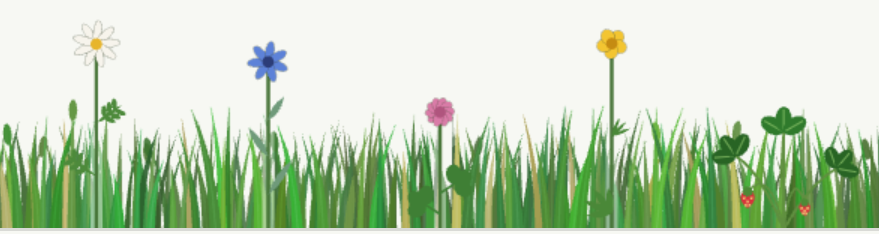
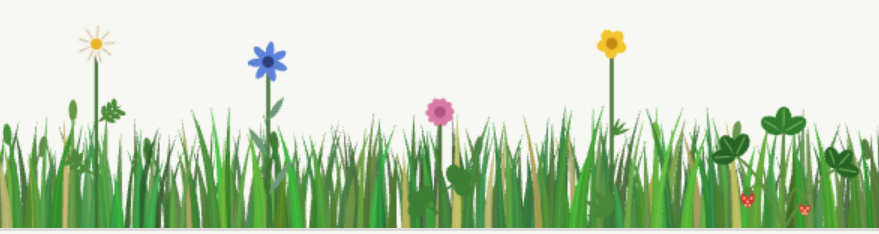
Preserve the grass behind flower heads and remove dark halos

diff --git a/flower-art.ts b/flower-art.ts
@@ -1,6 +1,6 @@
 /**
  * Рисунок цветов 0–3 (ромашка, василёк, клевер, лютик): длина стебля, листья по видам и
- * просвет в траве за цветком. Только геометрия и цвет; где цветок стоит и как гнётся —
+ * жилки белой ромашки. Только геометрия и цвет; где цветок стоит и как гнётся —
  * решает garden.ts (flowerShape), общий для рисунка, касания и покоса.
  */
 
@@ -134,20 +134,19 @@ export function drawLeaves(ctx: CanvasRenderingContext2D, kind: number, s: Stem,
   LEAVES[kind]?.(ctx, s, size);
 }
 
-/** Просвет в траве за цветком: дальние травинки вокруг стебля и головки слегка гаснут. */
-export function clearBehind(ctx: CanvasRenderingContext2D, s: Stem, r: number) {
-  ctx.save();
-  ctx.globalCompositeOperation = "destination-out";
-  ctx.globalAlpha = 0.45;
-  ctx.fillStyle = ctx.strokeStyle = "#000"; // цвет не важен; не оставлять цвет лепестков в контексте
+/**
+ * Белая ромашка на светлой теме: тонкая тёплая жилка внутри каждого лепестка (от сердцевины, не до
+ * кончика) отделяет лепестки друг от друга и от фона без контура и ореола вокруг головки.
+ * Вызывается в системе координат головки, уже повёрнутой как венчик.
+ */
+export function daisyVeins(ctx: CanvasRenderingContext2D, r: number, n: number, long: number) {
   ctx.beginPath();
-  ctx.moveTo(s.x, s.ground);
-  ctx.quadraticCurveTo(s.cx, s.cy, s.headX, s.headY);
-  ctx.lineWidth = 4;
-  ctx.lineCap = "round";
+  for (let i = 0; i < n; i++) {
+    ctx.rotate((Math.PI * 2) / n);
+    ctx.moveTo(0, -r * 0.5);
+    ctx.lineTo(0, -r * long * 0.85);
+  }
+  ctx.strokeStyle = "rgba(168, 150, 104, 0.45)";
+  ctx.lineWidth = Math.min(0.6, r * 0.12);
   ctx.stroke();
-  ctx.beginPath();
-  ctx.arc(s.headX, s.headY, r * 1.7 + 1.5, 0, Math.PI * 2);
-  ctx.fill();
-  ctx.restore();
 }

diff --git a/garden.ts b/garden.ts
@@ -1,4 +1,4 @@
-import { clearBehind, drawLeaves, type Stem, stemLength } from "./flower-art";
+import { daisyVeins, drawLeaves, type Stem, stemLength } from "./flower-art";
 import { bushShape, drawStrawberryBush, LEAF, STRAWBERRY } from "./strawberry";
 
 export const BLOOM_MS = 800;
@@ -16,6 +16,7 @@ export const FLOWER_KINDS = [
   { petal: "#f3c531", center: "#c58b12", n: 5, long: 1.0, wide: 0.85 }, // лютик
   { petal: LEAF, center: LEAF, n: 3, long: 1.0, wide: 0.7 }, // земляника: кустик, рисует strawberry.ts; petal — цвет обрезков
 ];
+const DAISY = 0;
 
 export function gardenCapacity(growth: number) {
   return 3 + Math.round(growth * 9);
@@ -114,7 +115,6 @@ export function drawFlowers(ctx: CanvasRenderingContext2D, flowers: Flower[], wi
       continue;
     }
     const curve: Stem = { x, ground, cx: x + bend * stem * 0.1, cy: ground - stem * 0.5, headX, headY, len: stem, bend };
-    clearBehind(ctx, curve, r);
     ctx.beginPath();
     ctx.moveTo(x, ground + 0.5);
     ctx.quadraticCurveTo(curve.cx, curve.cy, headX, headY);
@@ -131,15 +131,13 @@ export function drawFlowers(ctx: CanvasRenderingContext2D, flowers: Flower[], wi
     ctx.rotate(bend * 0.6 + x * 0.37);
     ctx.globalAlpha = dark ? 0.9 : 1;
     ctx.fillStyle = kind.petal;
-    ctx.strokeStyle = "rgba(57, 69, 45, 0.40)";
-    ctx.lineWidth = 0.55;
     for (let i = 0; i < kind.n; i++) {
       ctx.rotate((Math.PI * 2) / kind.n);
       ctx.beginPath();
       ctx.ellipse(0, -r * kind.long * 0.55, r * kind.wide * 0.55, r * kind.long * 0.55, 0, 0, Math.PI * 2);
-      ctx.stroke();
       ctx.fill();
     }
+    if (f.kind === DAISY && !dark) daisyVeins(ctx, r, kind.n, kind.long);
     ctx.beginPath();
     ctx.arc(0, 0, r * 0.42, 0, Math.PI * 2);
     ctx.fillStyle = kind.center;
